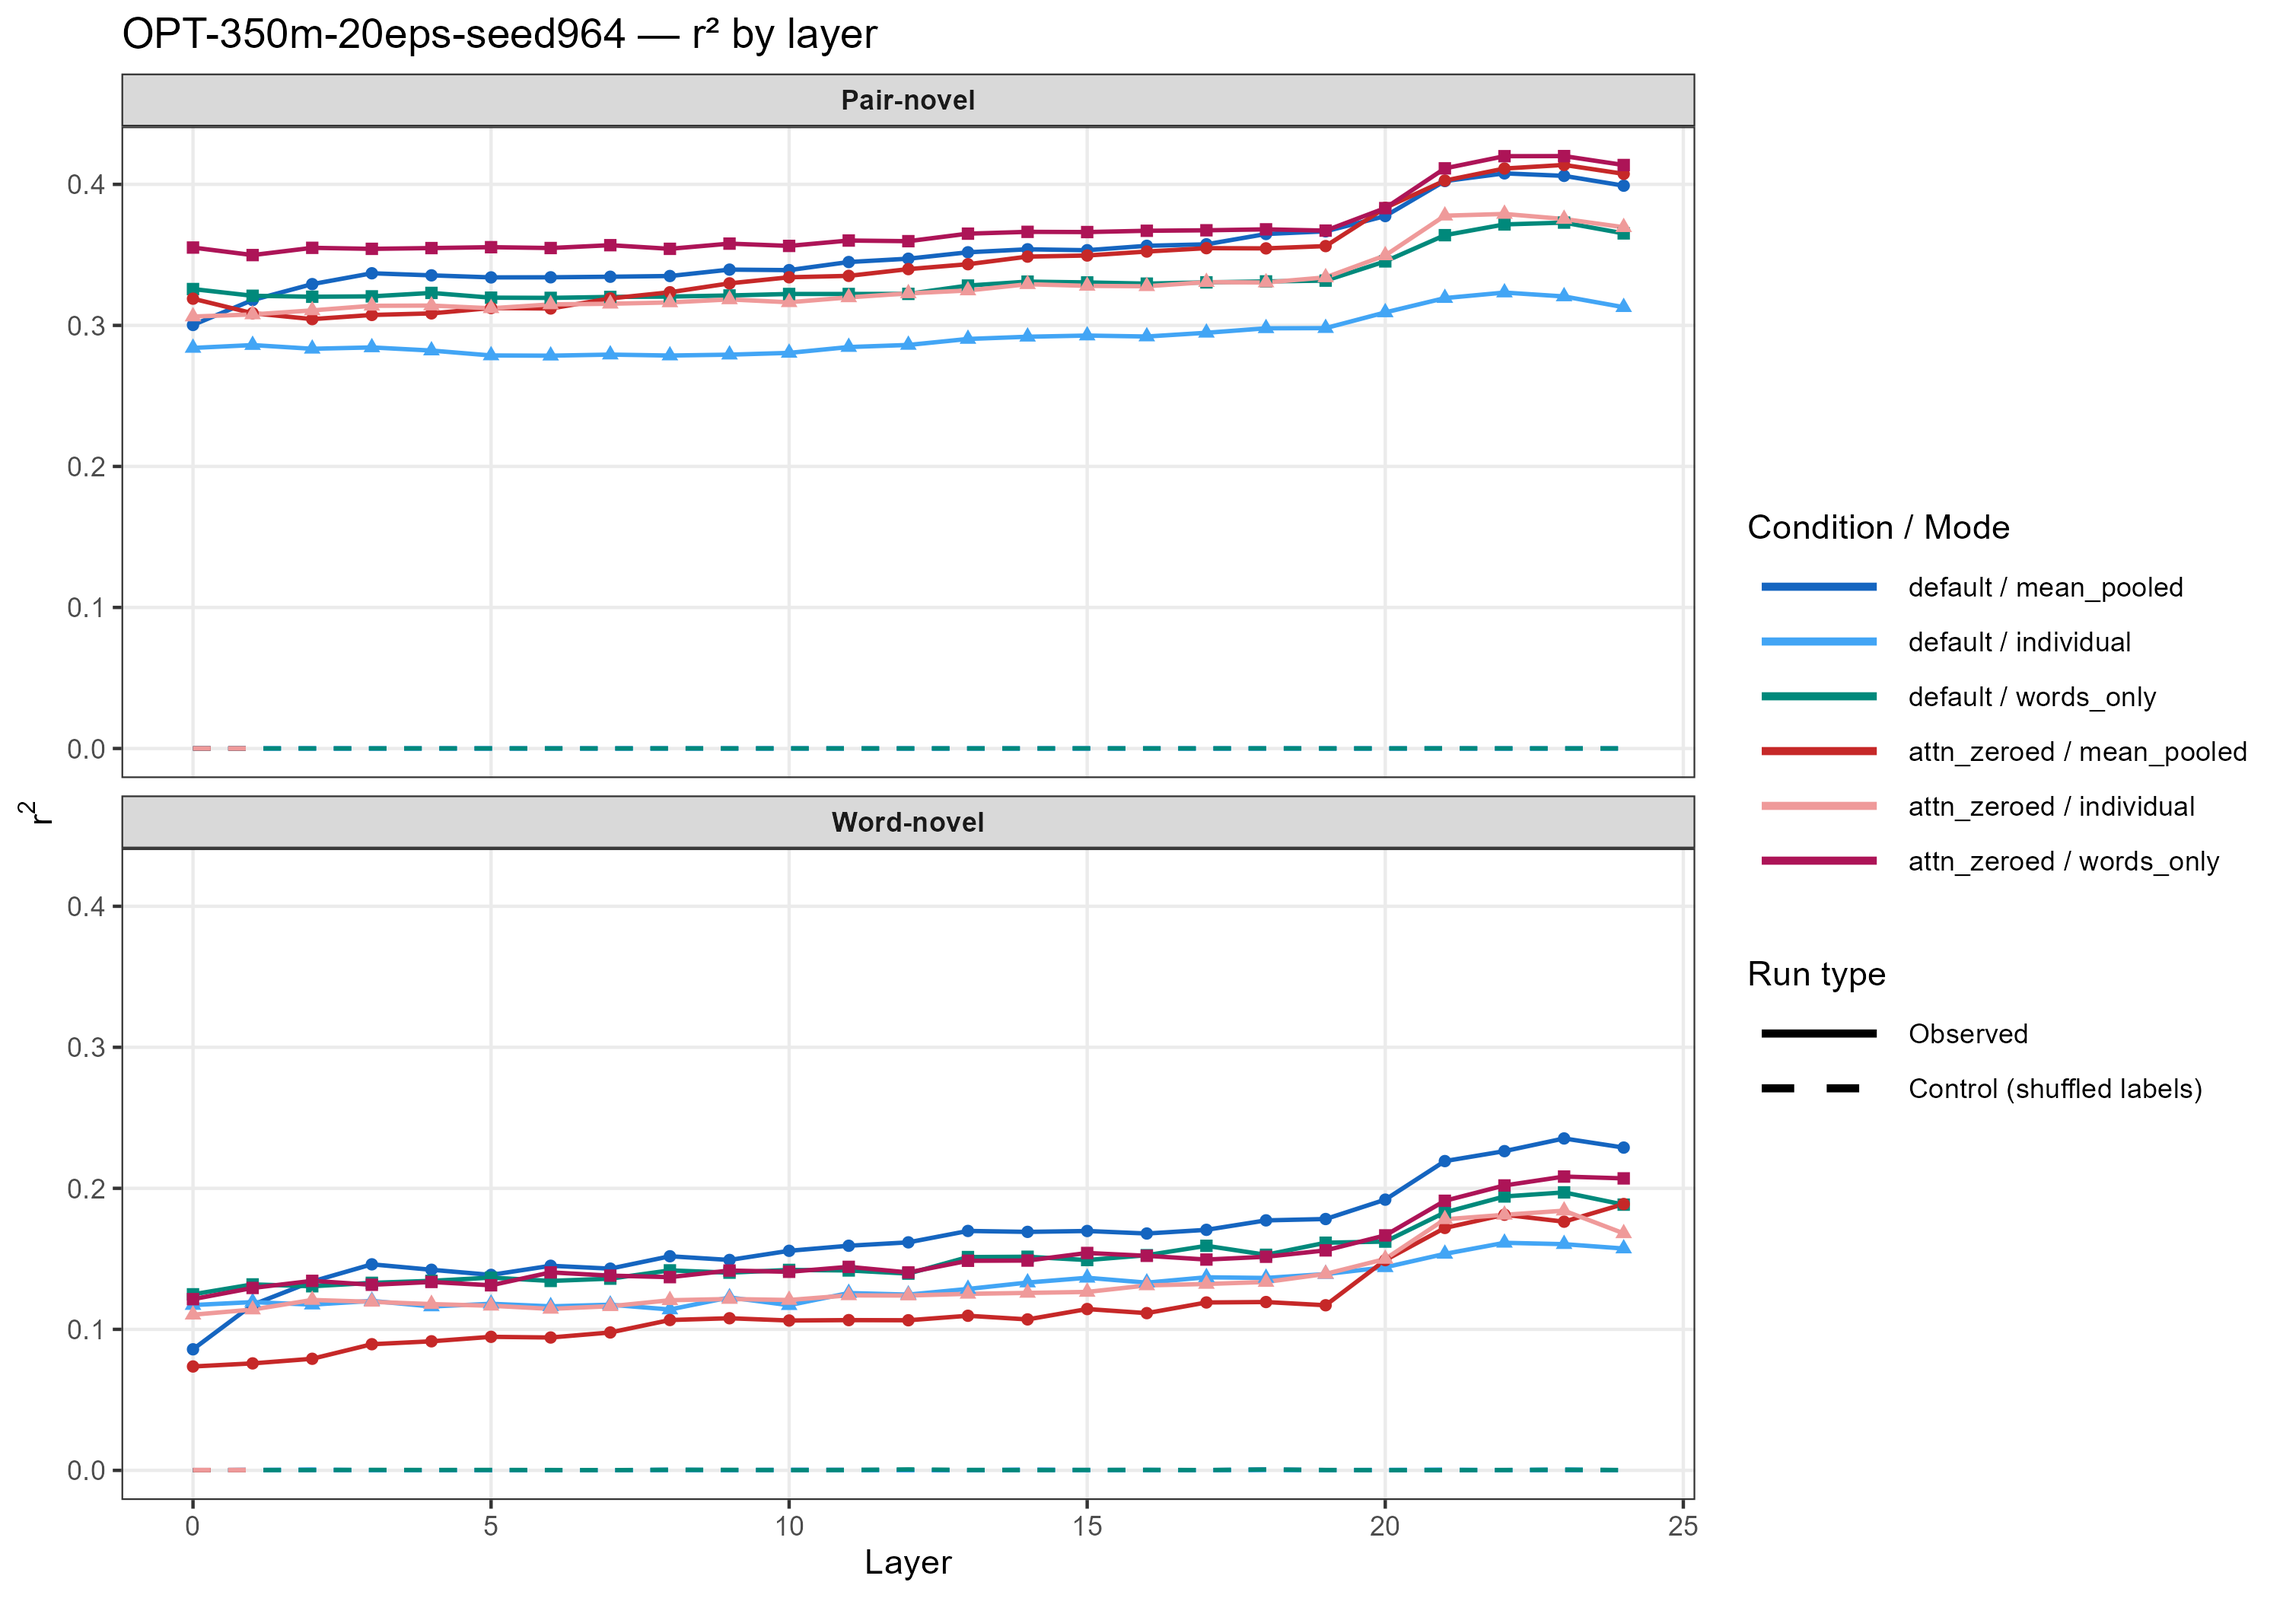
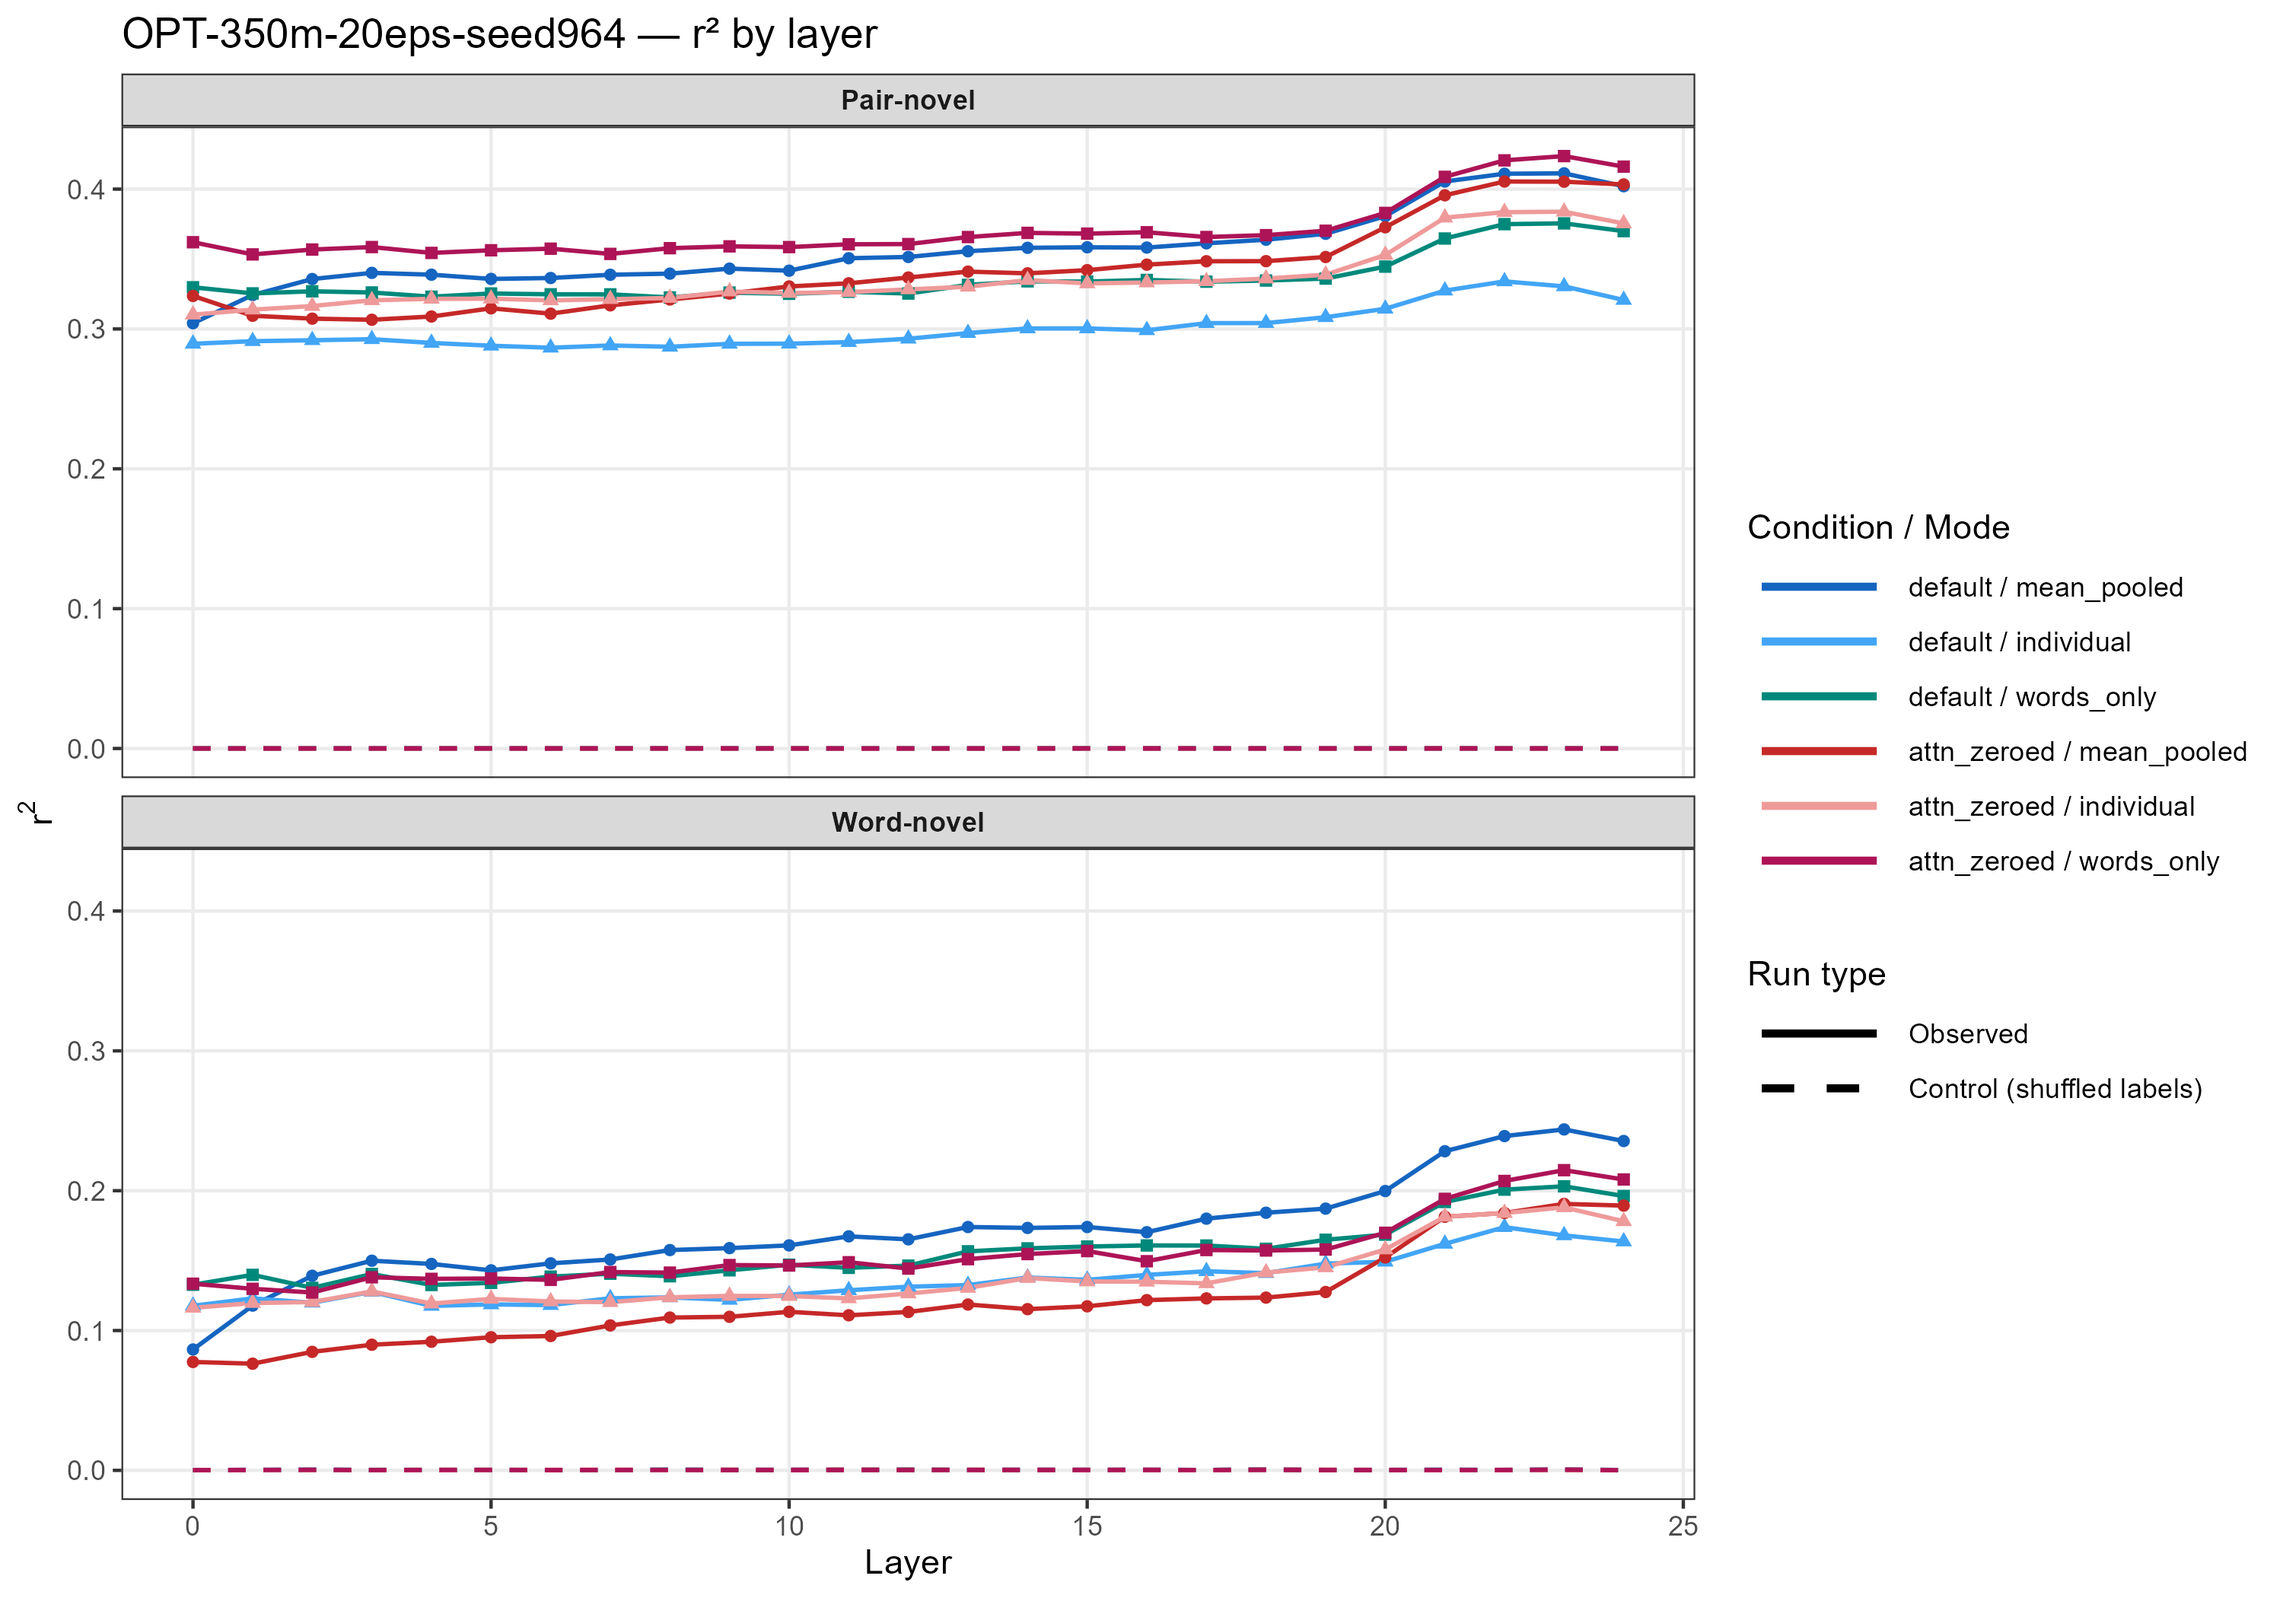
Update 350M tables and regenerate plots with corrected CSV
- Replace stale 350M r² values with those from newly tracked by_layer_mlp.csv
- Regenerate r2_by_layer and scatter plots with complete control lines
- Update key observations to reflect new peak values (pair_novel attn_zeroed/words_only peaks at .424 layer 23; word_novel default/mean_pooled peaks at .244 layer 23)

Changed region(s): [[0.031, 0.0929, 0.713, 0.2476], [0.062, 0.681, 0.713, 0.8667], [0.031, 0.65, 0.062, 0.681]]

diff --git a/pilot_results_2.md b/pilot_results_2.md
@@ -248,67 +248,67 @@ Solid lines = observed; dashed lines of same colour = shuffled-label control (pa
 
 | Layer | default / mean_pooled | default / individual | default / words_only | attn_zeroed / mean_pooled | attn_zeroed / individual | attn_zeroed / words_only |
 |---:|---:|---:|---:|---:|---:|---:|
-| 0  | .300 | .284 | .326 | .319 | .306 | .355 |
-| 1  | .318 | .286 | .321 | .309 | .308 | .350 |
-| 2  | .329 | .283 | .320 | .304 | .311 | .355 |
-| 3  | .337 | .284 | .321 | .307 | .314 | .354 |
-| 4  | .335 | .282 | .323 | .309 | .314 | .355 |
-| 5  | .334 | .279 | .320 | .312 | .312 | .355 |
-| 6  | .334 | .279 | .320 | .312 | .315 | .355 |
-| 7  | .334 | .279 | .320 | .319 | .315 | .357 |
-| 8  | .335 | .279 | .320 | .323 | .316 | .354 |
-| 9  | .340 | .279 | .321 | .330 | .318 | .358 |
-| 10 | .339 | .281 | .322 | .334 | .316 | .356 |
-| 11 | .345 | .285 | .322 | .335 | .320 | .360 |
-| 12 | .347 | .286 | .322 | .340 | .323 | .360 |
-| 13 | .352 | .290 | .328 | .343 | .325 | .365 |
-| 14 | .354 | .292 | .331 | .349 | .329 | .366 |
-| 15 | .353 | .293 | .330 | .350 | .328 | .366 |
-| 16 | .356 | .292 | .330 | .352 | .328 | .367 |
-| 17 | .357 | .295 | .331 | .355 | .331 | .367 |
-| 18 | .365 | .298 | .331 | .355 | .330 | .368 |
-| 19 | .367 | .298 | .332 | .356 | .334 | .367 |
-| 20 | .378 | .309 | .345 | .383 | .350 | .383 |
-| 21 | .402 | .319 | .364 | .403 | .378 | .411 |
-| 22 | .408 | .323 | .372 | .411 | .379 | .420 |
-| 23 | .406 | .321 | .373 | .414 | .375 | .420 |
-| 24 | .399 | .313 | .365 | .407 | .370 | .414 |
+| 0  | .304 | .289 | .330 | .324 | .310 | .362 |
+| 1  | .324 | .291 | .325 | .309 | .314 | .353 |
+| 2  | .336 | .292 | .327 | .307 | .316 | .357 |
+| 3  | .340 | .293 | .326 | .307 | .321 | .359 |
+| 4  | .339 | .290 | .323 | .309 | .322 | .354 |
+| 5  | .336 | .288 | .325 | .315 | .322 | .356 |
+| 6  | .336 | .287 | .325 | .311 | .320 | .357 |
+| 7  | .339 | .288 | .325 | .317 | .321 | .354 |
+| 8  | .340 | .287 | .323 | .321 | .322 | .358 |
+| 9  | .343 | .289 | .326 | .325 | .327 | .359 |
+| 10 | .342 | .289 | .325 | .330 | .326 | .359 |
+| 11 | .351 | .291 | .327 | .333 | .326 | .361 |
+| 12 | .351 | .293 | .325 | .337 | .328 | .361 |
+| 13 | .356 | .297 | .332 | .341 | .330 | .366 |
+| 14 | .358 | .300 | .334 | .340 | .335 | .369 |
+| 15 | .358 | .300 | .334 | .342 | .333 | .368 |
+| 16 | .358 | .299 | .335 | .346 | .333 | .369 |
+| 17 | .361 | .304 | .334 | .348 | .334 | .366 |
+| 18 | .364 | .304 | .335 | .348 | .336 | .367 |
+| 19 | .368 | .308 | .336 | .351 | .339 | .370 |
+| 20 | .381 | .314 | .345 | .373 | .353 | .383 |
+| 21 | .405 | .327 | .365 | .396 | .380 | .409 |
+| 22 | .411 | .334 | .375 | .405 | .384 | .421 |
+| 23 | .411 | .330 | .376 | .405 | .384 | .424 |
+| 24 | .402 | .321 | .370 | .403 | .375 | .416 |
 
 ### word_novel r² by layer
 
 | Layer | default / mean_pooled | default / individual | default / words_only | attn_zeroed / mean_pooled | attn_zeroed / individual | attn_zeroed / words_only |
 |---:|---:|---:|---:|---:|---:|---:|
-| 0  | .086 | .117 | .125 | .074 | .110 | .121 |
-| 1  | .117 | .119 | .132 | .076 | .114 | .129 |
-| 2  | .134 | .118 | .131 | .079 | .121 | .134 |
-| 3  | .146 | .120 | .133 | .089 | .120 | .132 |
-| 4  | .142 | .116 | .134 | .092 | .118 | .134 |
-| 5  | .139 | .118 | .137 | .095 | .117 | .131 |
-| 6  | .145 | .116 | .134 | .094 | .115 | .140 |
-| 7  | .143 | .117 | .136 | .098 | .116 | .138 |
-| 8  | .152 | .114 | .142 | .107 | .121 | .137 |
-| 9  | .149 | .123 | .140 | .108 | .122 | .142 |
-| 10 | .156 | .117 | .142 | .106 | .121 | .141 |
-| 11 | .159 | .126 | .142 | .107 | .124 | .144 |
-| 12 | .162 | .125 | .140 | .106 | .124 | .140 |
-| 13 | .170 | .129 | .151 | .110 | .125 | .149 |
-| 14 | .169 | .133 | .151 | .107 | .126 | .149 |
-| 15 | .170 | .137 | .149 | .114 | .127 | .154 |
-| 16 | .168 | .133 | .153 | .111 | .131 | .152 |
-| 17 | .171 | .137 | .159 | .119 | .132 | .149 |
-| 18 | .177 | .136 | .153 | .119 | .134 | .151 |
-| 19 | .178 | .139 | .161 | .117 | .139 | .156 |
-| 20 | .192 | .144 | .162 | .149 | .150 | .167 |
-| 21 | .219 | .154 | .183 | .172 | .178 | .191 |
-| 22 | .226 | .161 | .194 | .181 | .181 | .202 |
-| 23 | .235 | .160 | .197 | .176 | .184 | .208 |
-| 24 | .229 | .157 | .188 | .189 | .168 | .207 |
+| 0  | .086 | .118 | .133 | .078 | .116 | .133 |
+| 1  | .118 | .123 | .140 | .076 | .120 | .130 |
+| 2  | .139 | .120 | .131 | .085 | .120 | .127 |
+| 3  | .150 | .128 | .140 | .090 | .128 | .138 |
+| 4  | .148 | .118 | .133 | .092 | .119 | .137 |
+| 5  | .143 | .119 | .134 | .095 | .123 | .137 |
+| 6  | .148 | .118 | .139 | .096 | .121 | .136 |
+| 7  | .151 | .123 | .141 | .104 | .120 | .142 |
+| 8  | .158 | .124 | .139 | .109 | .124 | .141 |
+| 9  | .159 | .122 | .143 | .110 | .125 | .147 |
+| 10 | .161 | .126 | .147 | .113 | .125 | .147 |
+| 11 | .167 | .129 | .145 | .111 | .123 | .149 |
+| 12 | .165 | .131 | .146 | .113 | .126 | .144 |
+| 13 | .174 | .133 | .157 | .119 | .130 | .151 |
+| 14 | .173 | .138 | .159 | .115 | .138 | .155 |
+| 15 | .174 | .136 | .160 | .117 | .135 | .157 |
+| 16 | .170 | .140 | .161 | .122 | .135 | .150 |
+| 17 | .180 | .142 | .161 | .123 | .134 | .158 |
+| 18 | .184 | .141 | .158 | .124 | .141 | .157 |
+| 19 | .187 | .148 | .165 | .128 | .145 | .158 |
+| 20 | .200 | .149 | .169 | .152 | .158 | .170 |
+| 21 | .228 | .162 | .192 | .181 | .181 | .194 |
+| 22 | .239 | .174 | .201 | .184 | .184 | .207 |
+| 23 | .244 | .168 | .203 | .191 | .188 | .215 |
+| 24 | .236 | .164 | .196 | .189 | .178 | .208 |
 
 **Key observations (350M):**
 - Both conditions improve gradually through layers 1–20, then accelerate sharply at layers 21–23 before a slight drop at layer 24. The late-layer peak is more pronounced than in 125M.
-- attn_zeroed meets or exceeds default on pair_novel in later layers, most clearly for `words_only` (layer 23: .420 vs .373) and `mean_pooled` (layer 23: .414 vs .406). Cross-word attention appears unnecessary for ordering prediction.
+- attn_zeroed meets or exceeds default on pair_novel in later layers, most clearly for `words_only` (layer 23: .424 vs .376) and `mean_pooled` (layers 22–23: .405 vs .411). Cross-word attention appears unnecessary for ordering prediction.
 - `words_only` is the strongest mode for attn_zeroed throughout; `individual` is consistently lowest for default.
-- word_novel is substantially lower for attn_zeroed than default in early layers (layer 0: .074 vs .086 for mean_pooled) but converges by the final layers.
+- word_novel is substantially lower for attn_zeroed than default in early layers (layer 0: .078 vs .086 for mean_pooled) but converges and slightly exceeds default by layers 22–23.
 - Layer 0 starts higher than 125M across the board, consistent with a larger embedding space.
 
 ### Observed vs. predicted — pair-novel split (key layers)
